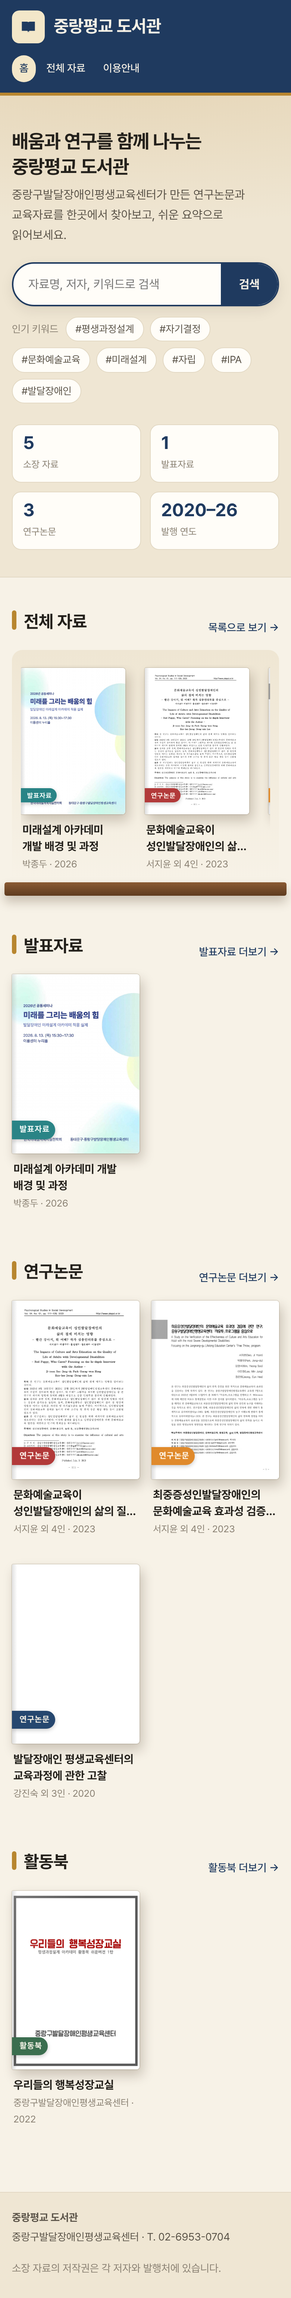
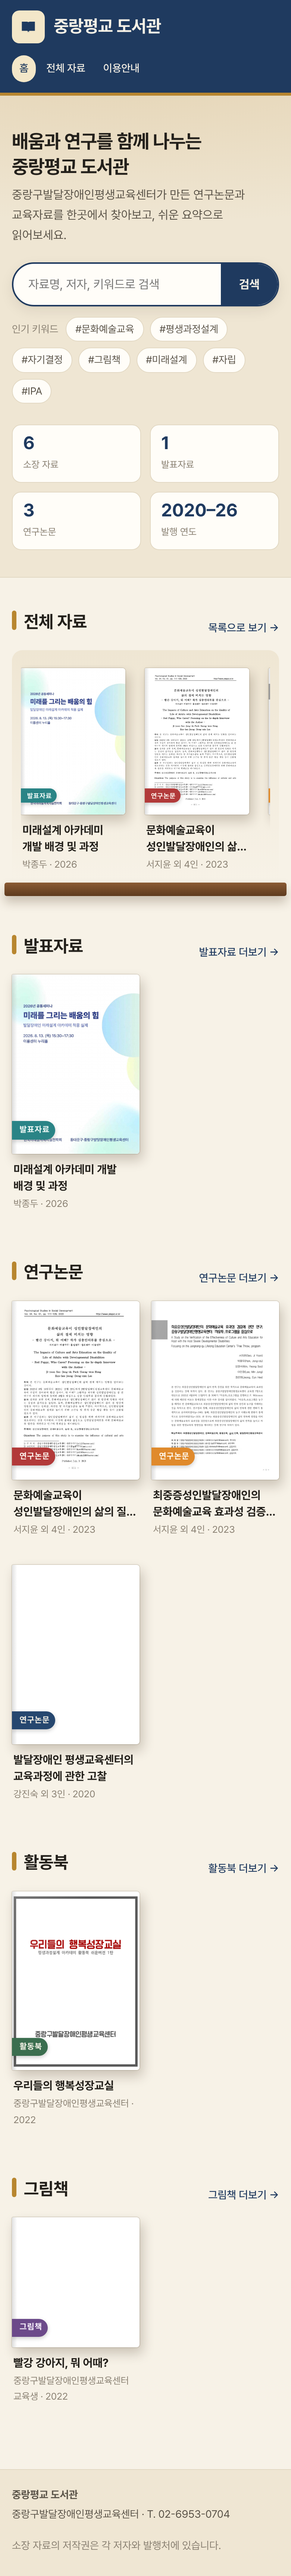
새 자료 추가: 그림책 「빨강 강아지, 뭐 어때?」(2022)
- 펼침 표지에서 앞표지만 잘라 표지로 사용, 정사각형 표지 비율(coverRatio) 지원
- 장면별 책 속 글 전체와 책 정보·메시지 요약
- 원문 내려받기는 열지 않음

Claude-Session: https://claude.ai/code/session_017ot5WS4pG4jw3hhbpkp5C4

diff --git a/data/reports.js b/data/reports.js
@@ -17,6 +17,84 @@
 window.REPORTS = {
 
   /* ================================================================ */
+  "red-puppy-picturebook-2022": {
+    chapters: [
+      {
+        h: "이 책은?",
+        blocks: [
+          { p: "중랑구발달장애인평생교육센터 교육생들이 문화예술교육 시간에 직접 글을 쓰고 그림을 그려 만든 그림책입니다. 주인공 빨강 강아지가 저마다 다른 모습과 색깔을 가진 동물 친구들을 한 명씩 소개하고, 마지막에 “우리는 여러가지 색깔 다양한 모습이에요. 뭐 어때?”라고 말합니다." },
+          { table: {
+            caption: "책 정보 (판권 기준)",
+            head: ["항목", "내용"],
+            rows: [
+              ["제목", "빨강 강아지, 뭐 어때?"],
+              ["표지 문구", "모습도 색깔도 다양한 우리들, 뭐 어때?"],
+              ["발행일", "2022년 12월"],
+              ["발행처", "중랑구발달장애인평생교육센터 (T. 02-6953-0704)"],
+              ["편집자", "서지윤, 이동민, 정은희, 홍성원 사회복지사"],
+              ["글·그림", "센터 교육생 29명"],
+              ["분량", "24쪽"]
+            ]
+          } },
+          { box: "이 그림책을 만든 교육생 작가 4명을 인터뷰한 연구 「문화예술교육이 성인발달장애인의 삶의 질에 미치는 영향 — ‘빨간 강아지, 뭐 어때?’ 작가 심층인터뷰를 중심으로」(2023)도 이 도서관에 있습니다. 작가들은 자기 자신을 동물에 빗대어 그렸다고 이야기했습니다.", title: "함께 읽기" }
+        ]
+      },
+      {
+        h: "빨강 강아지와 친구들",
+        blocks: [
+          { p: "책에 실린 글을 그대로 옮겼습니다." },
+          { table: {
+            head: ["쪽", "등장", "책 속 글"],
+            rows: [
+              ["1", "빨강 강아지", "(말풍선) 빨강 강아지, 뭐 어때?"],
+              ["2", "과일들", "보라색 사과, 파란색 수박, 노란색 토마토, 초록색 포도 그리고…"],
+              ["3", "빨강 강아지", "저는 빨강 강아지에요! 제 친구들을 소개할게요."],
+              ["4", "거북이 ‘대추’", "땅에서는 엉금엉금 바다에서는 첨벙첨벙 헤엄쳐요. 딱딱한 등은 축구공을 닮았어요. 이름은 대추예요."],
+              ["5", "고래", "엄청 큰 내가 등장했다! 마신 물을 뿌우 하고 등으로 뿜어요. 작은 물고기들이 저를 무서워하지만 친하게 지내고 싶다고 전해줘요."],
+              ["6", "노란 비둘기", "비둘비둘 비둘기에요. 깃털이 노란색이라 병아리처럼 보이기도 하지만 비둘기에요. 내 노란색 깃털이 너무 마음에 들어요."],
+              ["7", "병아리", "옆에 사는 친구랑 닮았지만 그 친구는 비둘기고 제가 진짜 병아리에요. 얼른 커서 멋진 닭이 되고 싶어요. 그래서 밥을 많이 먹고 있어요."],
+              ["8", "말", "갈색 털이 멋진 저는 말이고요. 뚱뚱해요. 사람들을 태우고 다닐 때는 날씬했는데, 지금은 많이 먹어서 뚱뚱해지고 머리에 검은색 뿔이 나기 시작해서 너무 속상해요."],
+              ["9", "춤추는 친구", "저는 정말 정말 흥이 많아서 팔과 귀를 계속 흔들흔들 흔들고 있어요. 흔들면 흔들수록 더 신이 나고 재밌어요. 계속 춤추고 싶어요!"],
+              ["10", "판다 가족", "몸이 빨간 판다는 아빠 판다고 평소엔 대나무를 많이 먹어서 뿌룩뿌룩 걸어 다녀요. 몸이 하얀 판다는 엄마 판다고 대나무를 조금만 먹어서 폭샥폭샥하고 걸어 다녀요."],
+              ["11", "아빠 판다", "귀엽고 다정하지만 아빠 판다가 속을 썩이면 가끔 무서워져요."],
+              ["12", "호랑이", "저는 호랑이예요. “어흥!”, 이빨이 세고, 날카로워요. 힘이 무척이나 세고요 당연히 사자보다도 힘이 세요! 우리 숲의 사자는 강아지처럼 울어서 이상해요."],
+              ["13", "사자", "저는 사자예요. 하지만 “멍멍”, 한 번 더 멍멍 울음소리를 내는 사자예요. 저는요 코가 동그랗고 머리카락이 많아요, 네 다리로 걷고, 호랑이보다 힘이 더 세요. 근데 호랑이는 자기가 더 힘이 세다네요?"]
+            ]
+          } }
+        ]
+      },
+      {
+        h: "함께하면 즐거운 하루",
+        blocks: [
+          { table: {
+            head: ["쪽", "장면", "책 속 글"],
+            rows: [
+              ["14~15", "함께 밥 먹기", "밥을 먹고 있어요. 와구와구. 우걱우걱. 오이랑, 달걀말이랑, 김치랑 밥이 있고요. / 밥 먹는 시간은 너무 짧아요. 친구들과 맛있는 걸 먹으려고 준비하고 먹다 보면 어느새 다 먹고 쉬고 있어요."],
+              ["16", "축구", "같이 모이면 할 수 있는 게 많아요. 거북이랑 코끼리랑 축구 중이에요. 뻥~ 공이 골대까지 날아가요."],
+              ["17", "소풍", "줄넘기를 하는 파란색 호랑이, 예쁜 그림을 그리는 찡그린 토끼가 있어요. 친구들이 맛있는 걸 나눠먹어요."],
+              ["18~19", "비눗방울", "(손글씨) 후우우우 / 비눗방울을 후우 불어요. 비눗방울을 호호 불어요. 비눗방울이 점점 커져요. 우주의 별처럼 생긴 비눗방울을 마음껏 불어요."],
+              ["20~21", "공부하기", "(그림) 1+3= 4×5= / 1 더하기 3은? 4 곱하기 5는? 정답이 뭐지요?"]
+            ]
+          } }
+        ]
+      },
+      {
+        h: "이야기가 전하는 말",
+        blocks: [
+          { quote: "우리는 여러가지 색깔 다양한 모습이에요.", by: "22쪽" },
+          { quote: "뭐 어때?", by: "23쪽" },
+          { ul: [
+            "노란 비둘기, 뿔이 나는 말, 빨간 아빠 판다, “멍멍” 우는 사자처럼 등장하는 친구들은 모두 흔히 생각하는 모습과 조금씩 다릅니다.",
+            "친구들은 서로 다른 모습 그대로 함께 밥을 먹고, 축구를 하고, 비눗방울을 불며 어울립니다.",
+            "표지의 “모습도 색깔도 다양한 우리들, 뭐 어때?”처럼, 다름을 있는 그대로 받아들이는 편견 없는 세상을 바라는 마음을 담았습니다."
+          ] },
+          { box: "글 곳곳에 “엉금엉금”, “첨벙첨벙”, “뿌룩뿌룩”, “폭샥폭샥”, “와구와구”, “우걱우걱” 같은 소리·모양 흉내말이 들어 있고, 일부 장면에는 교육생의 손글씨(“뿌우우”, “어흥”, “멍멍”, “후우우우”)가 그대로 실렸습니다.", title: "읽는 재미" }
+        ]
+      }
+    ]
+  },
+
+  /* ================================================================ */
   "future-design-academy-2026": {
     chapters: [
       {

diff --git a/data/catalog.js b/data/catalog.js
@@ -11,6 +11,7 @@
  *  cover     : { theme: 색상테마, motif: 표지 그림 }  (theme=표지 띠 색, motif=첫 페이지 이미지가 없을 때 그리는 표지)
  *              theme  → navy | forest | crimson | amber | plum | teal | slate
  *              motif  → basketball | chart | puppy | sprout | book | heart | puzzle | music
+ *  coverRatio: (선택) 표지 비율. 기본은 세로형 3 / 4.2 — 정사각형 그림책 등은 "1 / 1.01" 처럼 지정
  *  firstPage : 원문 첫 페이지 이미지 (assets/firstpages/<id>.jpg) — 사이트 표지와 요약 PDF 첫 장에 사용
  *  original  : 원문 파일 경로 (files/originals/<id>.<확장자>) — 상세 페이지의 ‘원문 내려받기’
  *              (원문을 공개하지 않는 자료는 이 줄을 빼고 원문 파일도 올리지 않음)
@@ -51,6 +52,38 @@ window.CATALOG = [
         { label: "미래설계 영역", value: "8개" },
         { label: "이해도 유의미한 향상", value: "8개 중 7개 영역" },
         { label: "세미나", value: "2026. 8. 13." }
+      ]
+    }
+  },
+  {
+    id: "red-puppy-picturebook-2022",
+    format: "PDF",
+    firstPage: "assets/firstpages/red-puppy-picturebook-2022.jpg",
+    coverRatio: "1040 / 1055",
+    callNo: "그림책-2022-01",
+    type: "그림책",
+    title: "빨강 강아지, 뭐 어때?",
+    subtitle: "모습도 색깔도 다양한 우리들, 뭐 어때?",
+    authors: ["중랑구발달장애인평생교육센터 교육생"],
+    publisher: "중랑구발달장애인평생교육센터",
+    year: 2022,
+    pages: 24,
+    keywords: ["그림책", "다양성", "편견 없는 사회", "문화예술교육", "자기표현"],
+    cover: { theme: "plum", motif: "puppy" },
+    summary: {
+      oneLine:
+        "센터 교육생 29명이 직접 글을 쓰고 그림을 그린 그림책입니다. 빨강 강아지가 거북이, 고래, 노란 비둘기, 뿔 난 말, “멍멍” 우는 사자 같은 개성 있는 친구들을 소개하며 ‘모습도 색깔도 다양하지만 뭐 어때?’라는 메시지를 전합니다.",
+      easy: [
+        "센터 친구들이 직접 글을 쓰고 그림을 그린 그림책이에요.",
+        "빨강 강아지가 자기 친구들을 한 명씩 소개해요.",
+        "노란 비둘기, 멍멍 우는 사자처럼 모두 조금씩 달라요.",
+        "“우리는 여러 가지 색깔, 다양한 모습이에요. 뭐 어때?”"
+      ],
+      stats: [
+        { label: "글·그림 참여", value: "29명" },
+        { label: "분량", value: "24쪽" },
+        { label: "등장하는 친구", value: "10여 동물" },
+        { label: "발행", value: "2022년 12월" }
       ]
     }
   },

diff --git a/assets/cover.js b/assets/cover.js
@@ -58,7 +58,8 @@
     // 원문 첫 페이지 이미지가 있으면 그것을 표지로 사용
     if (b.firstPage) {
       return (
-        '<div class="cover cover--page t-' + esc(theme) + (lg ? " cover--lg" : "") + ' book__cover">' +
+        '<div class="cover cover--page t-' + esc(theme) + (lg ? " cover--lg" : "") + ' book__cover"' +
+        (b.coverRatio ? ' style="aspect-ratio: ' + esc(b.coverRatio) + '"' : "") + ">" +
         '<img src="' + esc(b.firstPage) + '" alt="' + esc(b.title) + ' 원문 첫 페이지" decoding="async">' +
         '<span class="cover__tag">' + esc(b.type) + "</span></div>"
       );

diff --git a/CLAUDE.md b/CLAUDE.md
@@ -20,22 +20,23 @@
 
 ## 새 자료가 올라오면 (항상 같은 방식으로)
 1. 원문을 `files/originals/<id>.<확장자>` 로 복사 (id: `영문-요약명-발행연도`, 내용은 바꾸지 않음)
-   - 원문 공개를 원하지 않는 자료는 복사하지 않고 catalog에서 `original`을 뺌 → 상세 페이지에 “원문을 내려받을 수 없어요” 표시 (현재: 우리들의 행복성장교실, 미래설계 아카데미 개발 배경 및 과정)
+   - 원문 공개를 원하지 않는 자료는 복사하지 않고 catalog에서 `original`을 뺌 → 상세 페이지에 “원문을 내려받을 수 없어요” 표시 (현재: 우리들의 행복성장교실, 미래설계 아카데미 개발 배경 및 과정, 빨강 강아지 뭐 어때?)
 2. 원문 읽기: PDF는 `pdftotext -layout`, HWP는 `pip install olefile && python3 -I tools/hwp2txt.py <파일>`
    - PPT(PPTX): 글자는 `python-pptx`로 슬라이드별 추출, 그래프·표 사진은 `soffice --headless --convert-to pdf` 후 `pdftoppm`으로 그림으로 보고 읽음. 사진으로 된 표처럼 숫자를 확실히 읽을 수 없는 내용은 요약에 넣지 않고 그렇게 밝힘
-3. 원문 첫 페이지를 이미지로 저장 → `assets/firstpages/<id>.jpg` (표지용 PDF를 따로 받으면 그 PDF 1쪽을 사용 — 예: 미래설계 아카데미 발표자료)
+3. 원문 첫 페이지를 이미지로 저장 → `assets/firstpages/<id>.jpg` (표지용 PDF를 따로 받으면 그 PDF 1쪽을 사용 — 예: 미래설계 아카데미 발표자료. 앞·뒤표지가 펼쳐진 표지는 책등을 피해 앞표지(오른쪽)만 잘라 사용 — 예: 빨강 강아지 그림책)
    - PDF: `pdftoppm -f 1 -l 1 -r 110 -jpeg -jpegopt quality=85 -singlefile <원문.pdf> assets/firstpages/<id>`
    - HWP: `node tools/hwp-render/render-first-page.js <원문.hwp> assets/firstpages/<id>.jpg`
 4. `data/catalog.js` 배열에 항목 추가 (필드 설명은 파일 상단 주석)
    - `original`: `files/originals/<id>.<확장자>`, `format`: `"PDF"`/`"HWP"`/`"PPTX"`, `firstPage`: `assets/firstpages/<id>.jpg`
-   - 슬라이드 자료는 `pagesLabel: "슬라이드 N장"`
-   - `callNo`: `논문-YYYY-NN` / `활동북-YYYY-NN` / `발표-YYYY-NN` / `보고서-YYYY-NN` … 같은 유형·연도 안에서 일련번호 증가
+   - 슬라이드 자료는 `pagesLabel: "슬라이드 N장"`, 정사각형에 가까운 표지(그림책 등)는 `coverRatio: "가로 / 세로"`
+   - `callNo`: `논문-YYYY-NN` / `활동북-YYYY-NN` / `발표-YYYY-NN` / `그림책-YYYY-NN` / `보고서-YYYY-NN` … 같은 유형·연도 안에서 일련번호 증가
    - `cover.theme`: 표지 유형 띠 색 — 기존 자료와 겹치지 않게 (navy·forest·crimson·amber·plum·teal·slate)
    - `cover.motif`: 첫 페이지 이미지가 없을 때 대신 그리는 표지 그림
    - `summary`: `oneLine`(대상·방법·핵심 결과), `easy`(쉬운 말 3~4문장, “~해요” 체), `stats`(핵심 숫자 2~4개)
 5. `data/reports.js`에 같은 id로 자세한 요약 작성
    - 논문: 연구 배경과 필요성 / (이론적 배경) / 연구 방법(대상·절차·도구, 표) / 연구 결과(표·수치·인터뷰 인용) / 결론과 제언 / 의의와 한계
    - 활동북·자료집: 이 책은?(목적·구성 표) / 단원별 내용과 활동 / 배운 내용 / 만든 사람들
+   - 그림책: 이 책은?(판권 정보 표) / 장면별 책 속 글(원문 그대로) / 이야기가 전하는 말. 글자가 그림 속에 있는 PDF는 페이지를 그림으로 보고 옮겨 적음
    - 발표자료: 이 자료는?(행사 정보·발표 구성 표) / 배경 / 과정(회기별 표) / 결과(표·그래프 해석) / 효과·발표 메모
    - 원문에 있는 사실·수치·인용만 사용 (추측 금지)
 6. `node tools/screenshot.js docs/process` 로 캡처 확인 (오류·가로 스크롤 없을 것), 상세 페이지의 ‘원문 내려받기’가 원문과 같은 파일인지 확인
